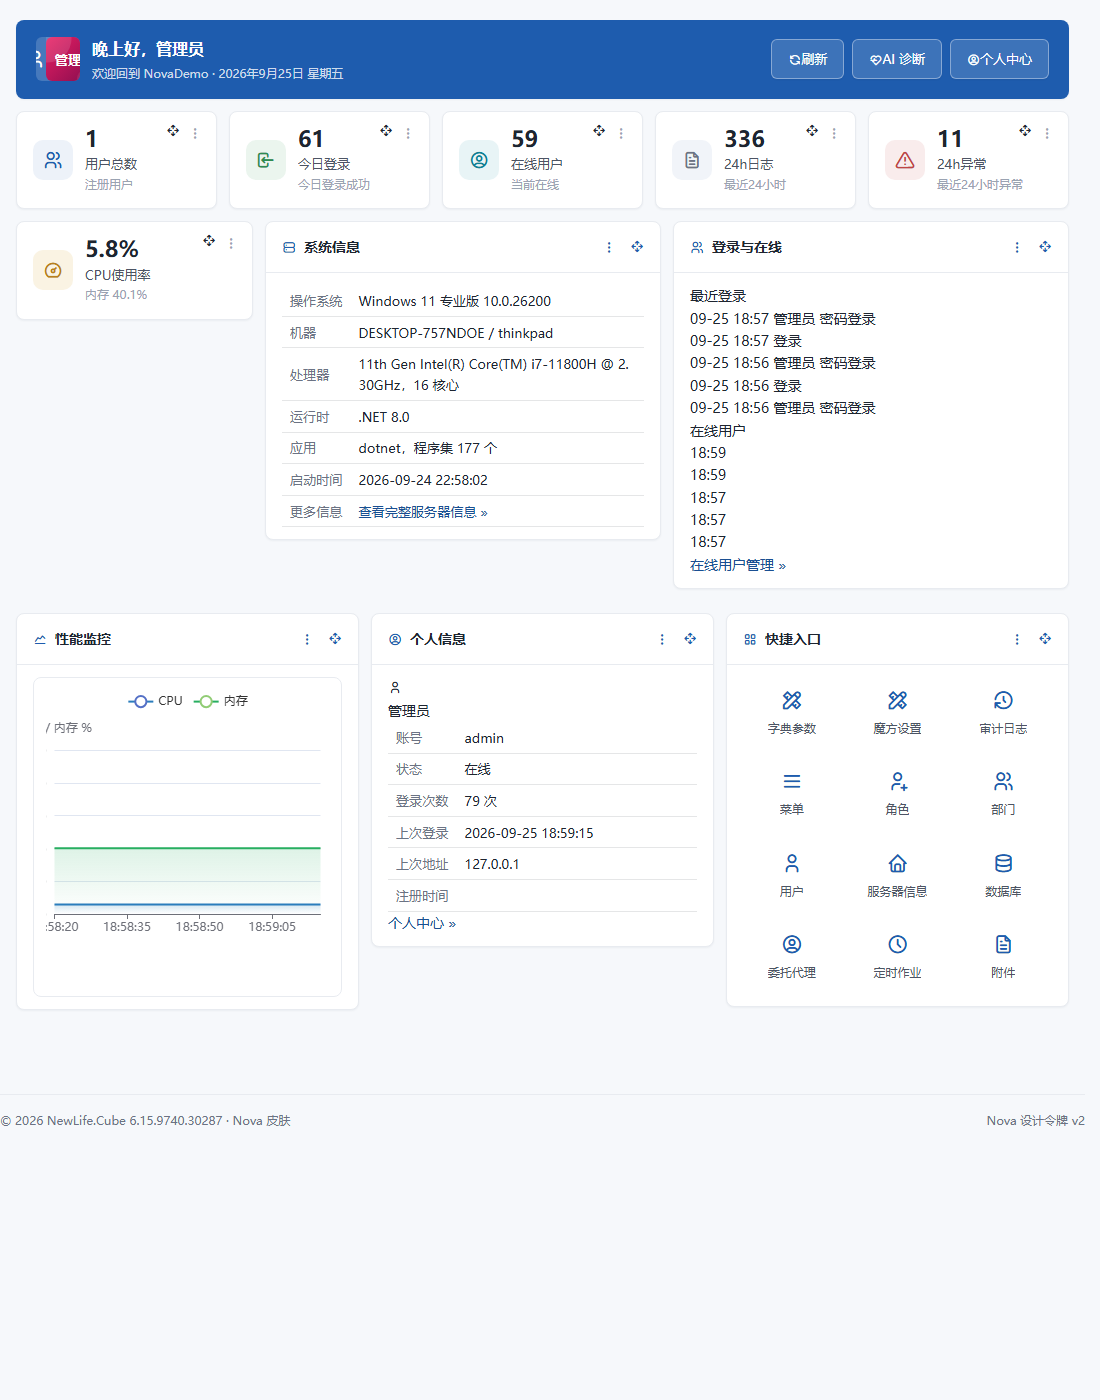
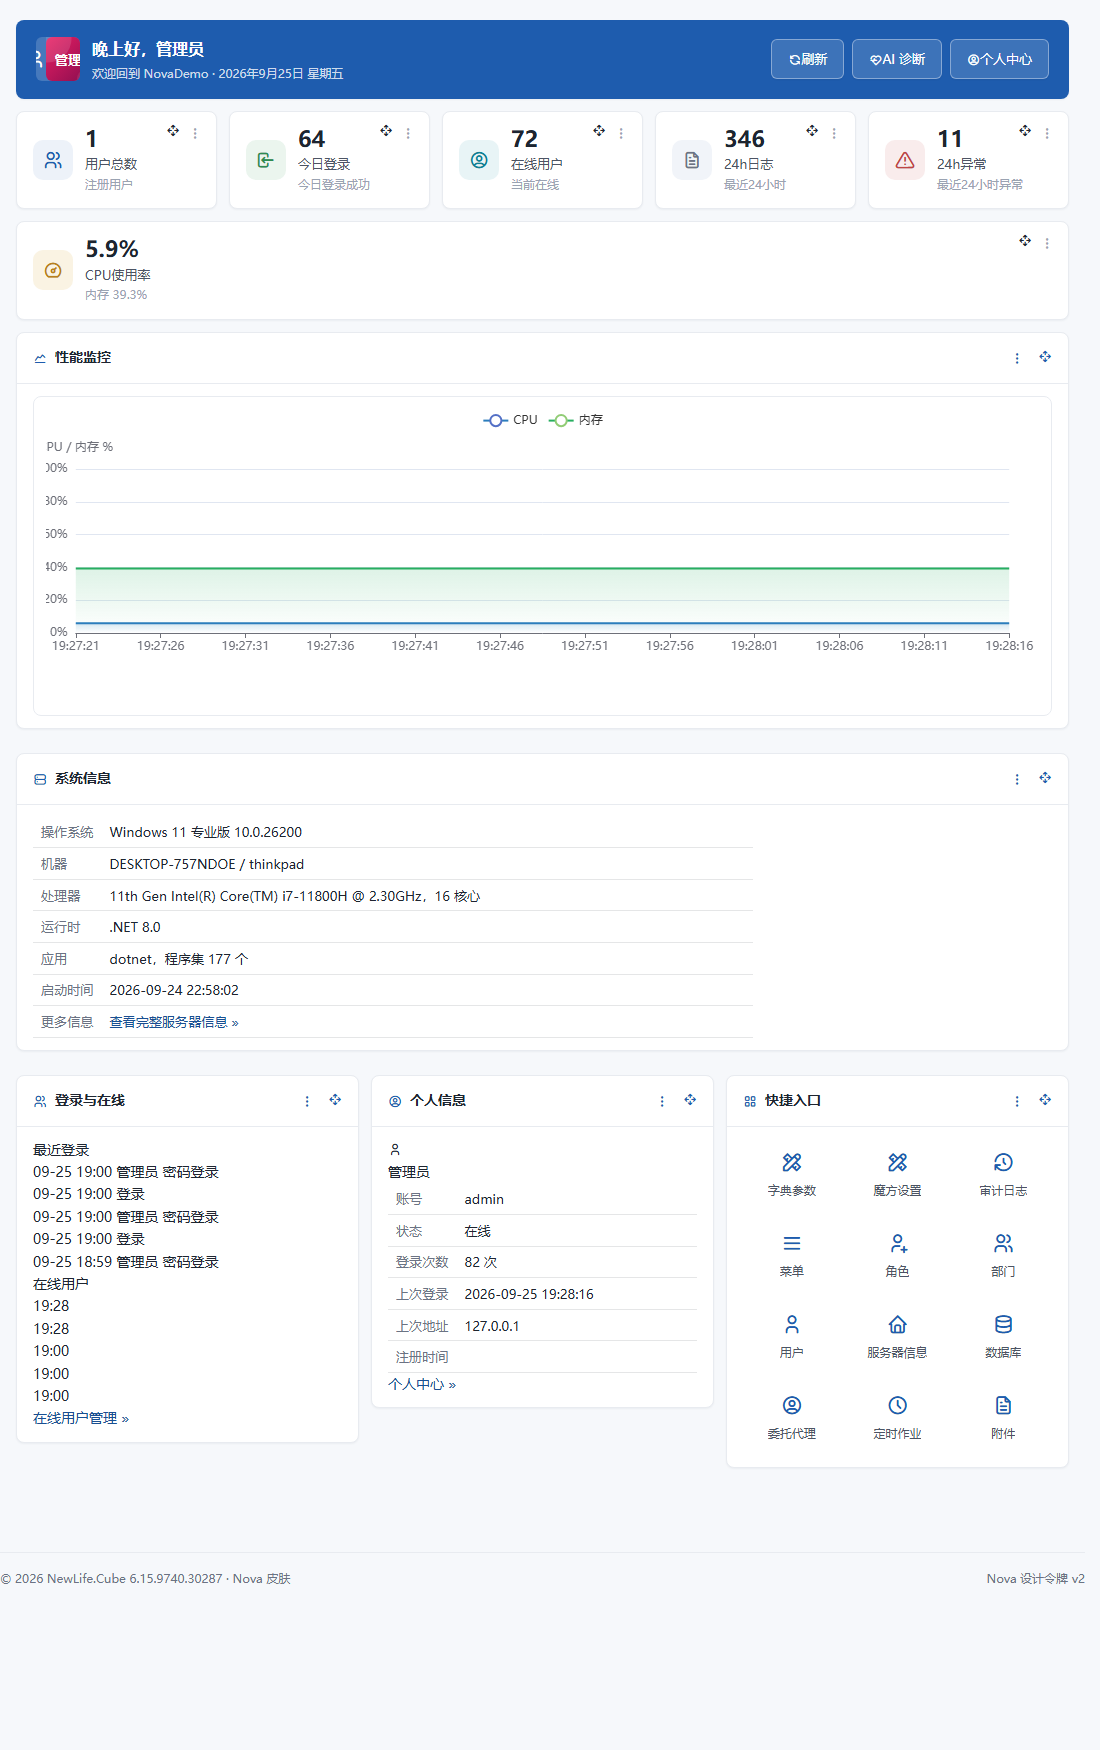
工作台布局调整：KPI 单独成行，系统信息/性能监控整行
- 按确认的版面基准：KPI 行 → 性能监控（整行）→ 系统信息（整行）→
  登录与在线/个人信息/快捷入口均分一行
- 实现：Monitor/SysInfo 部件 flex-basis 100% 强制断行，忽略服务端保存列宽；
  KPI 行 order:-2、Monitor order:-1 调整视觉顺序（DOM 不变，拖拽序列化不受影响）
- 系统信息整行时表格限宽 720px，避免超宽行影响阅读
- 三档宽度截图验证通过；回归 verify-demo.ps1 35 项全部 PASS

diff --git a/wwwroot/Content/nova/nova-ui.css b/wwwroot/Content/nova/nova-ui.css
@@ -2479,8 +2479,9 @@ body.nv .form-actions .btn-danger:hover, body.nv .form-actions .btn-danger:focus
 .widget-grid { display:flex; flex-wrap:wrap; gap:var(--nv-sp-3); margin:0 0 var(--nv-sp-3); }
 .widget-col { flex:1 1 220px; min-width:0; }
 /* KPI 卡忽略服务端保存的固定百分比宽，按内容自适应换行（响应式基准）；
-   flex-shrink 置 0，避免被同行的信息卡压缩、也不被拉伸成等高 */
-.widget-col-kpi { flex:1 0 180px; width:auto !important; }
+   flex-shrink 置 0，避免被同行的信息卡压缩、也不被拉伸成等高；
+   order:-2 保证 KPI 整体占据第一行（后面的整行部件 basis 100% 会强制断行） */
+.widget-col-kpi { flex:1 0 180px; width:auto !important; order:-2; }
 .widget-kpi {
  position:relative; display:flex; align-items:center; gap:12px;
  background:var(--nv-surface); border:1px solid var(--nv-border); border-radius:var(--nv-r-md);
@@ -2571,6 +2572,15 @@ body.nv .form-actions .btn-danger:hover, body.nv .form-actions .btn-danger:focus
 .cube-workbench .quicklink-item i { font-size:22px; color:var(--nv-primary); }
 .cube-workbench .quicklink-item span {
  font-size:var(--nv-fs-12); max-width:100%; white-space:nowrap; overflow:hidden; text-overflow:ellipsis; }
+
+/* 工作台整行部件（2026-09-25 布局确认）：性能监控、系统信息单独成行。
+   性能监控 order:-1 提到 KPI 行之后（视觉顺序，DOM 不变，拖拽序列化不受影响）；
+   其余信息卡（登录与在线/个人信息/快捷入口）保持均分一行。
+   注意：本段在响应式媒体查询之后，等specificity时以本段为准。 */
+.cube-workbench .widget-col[data-name="Monitor"] { order:-1; flex:1 0 100%; width:auto !important; }
+.cube-workbench .widget-col[data-name="SysInfo"] { flex:1 0 100%; width:auto !important; }
+/* 系统信息整行展示时限制表格阅读宽度，避免超宽行 */
+.cube-workbench .widget-col[data-name="SysInfo"] .widget-table { max-width:720px; }
 
 /* ============================================================ 下拉筛选与多选下拉（2026-09-25）
    单选下拉（nv-selectpop）面板顶部筛选框；多选下拉（nv-multipop）= 筛选 + 全选/清空 + 勾选列表。 */
